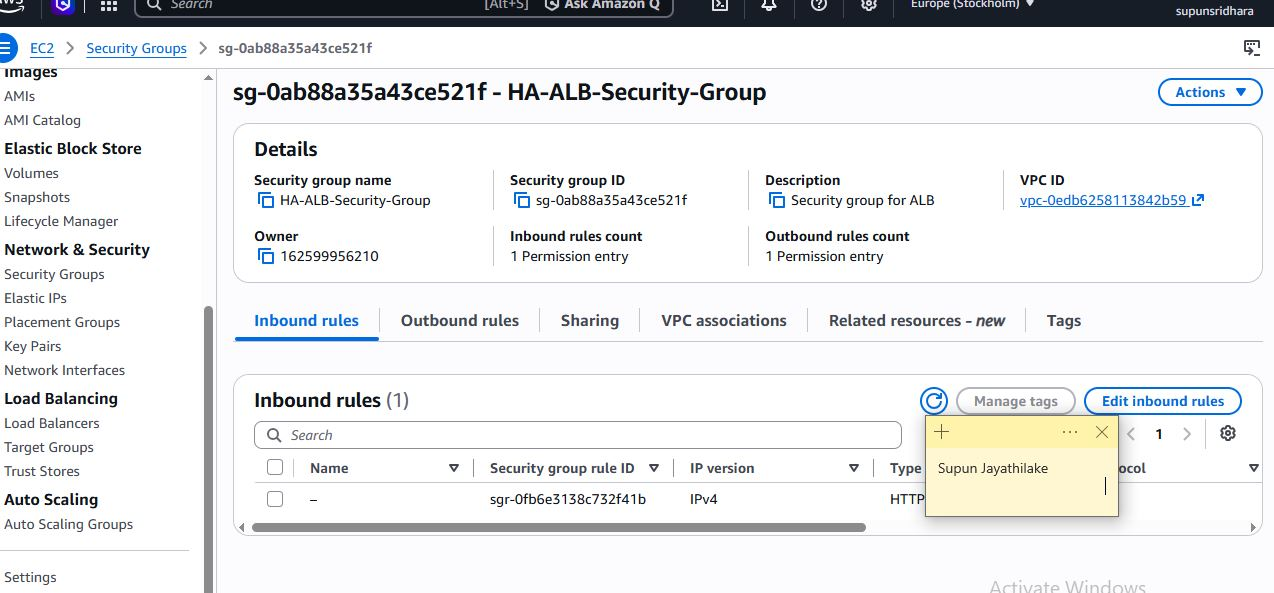
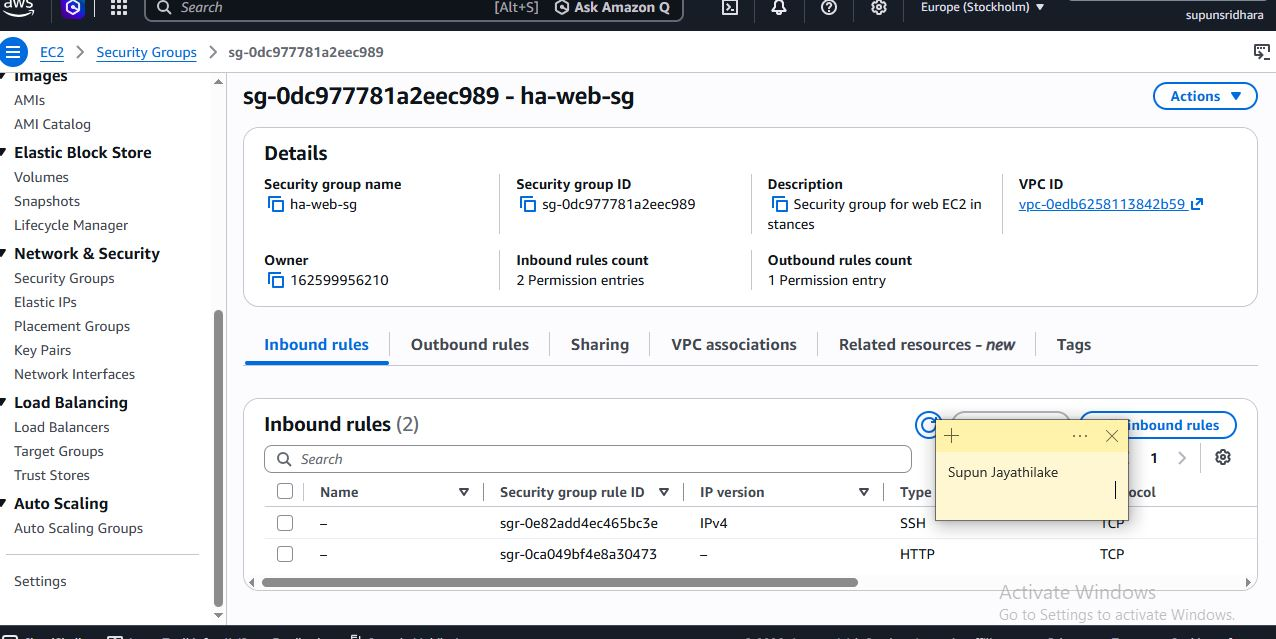
assignment 5 submission

diff --git a/week-06-aws-cloud/assignment-05-deploy-a-highly-available-two-tier-application-on-aws.md b/week-06-aws-cloud/assignment-05-deploy-a-highly-available-two-tier-application-on-aws.md
@@ -64,7 +64,7 @@ Create `ha-alb-sg` (HTTP public), `ha-web-sg` (HTTP only from `ha-alb-sg`, SSH f
 
 #### Screenshot 7 — EC2 Security Group inbound rules showing the ALB Security Group reference and SSH from your IP
 
-![alt text](657.JPG)
+![alt text](657-1.JPG)
 
 ---
 
